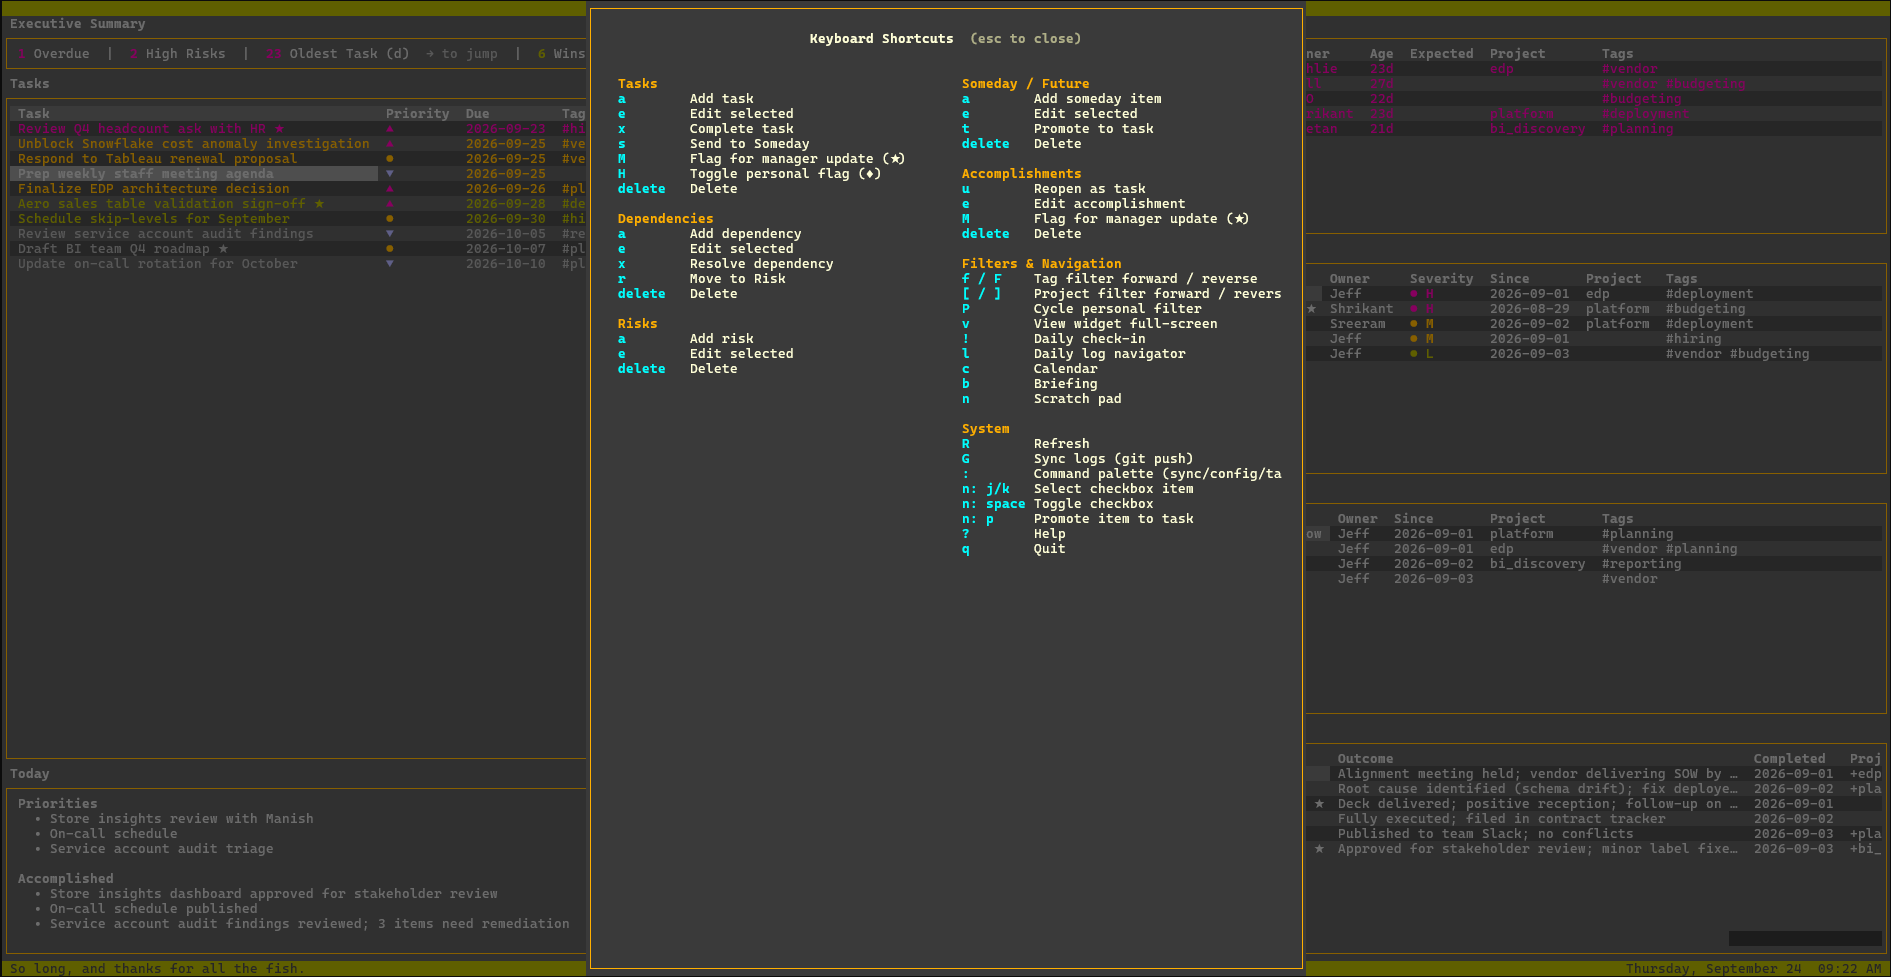
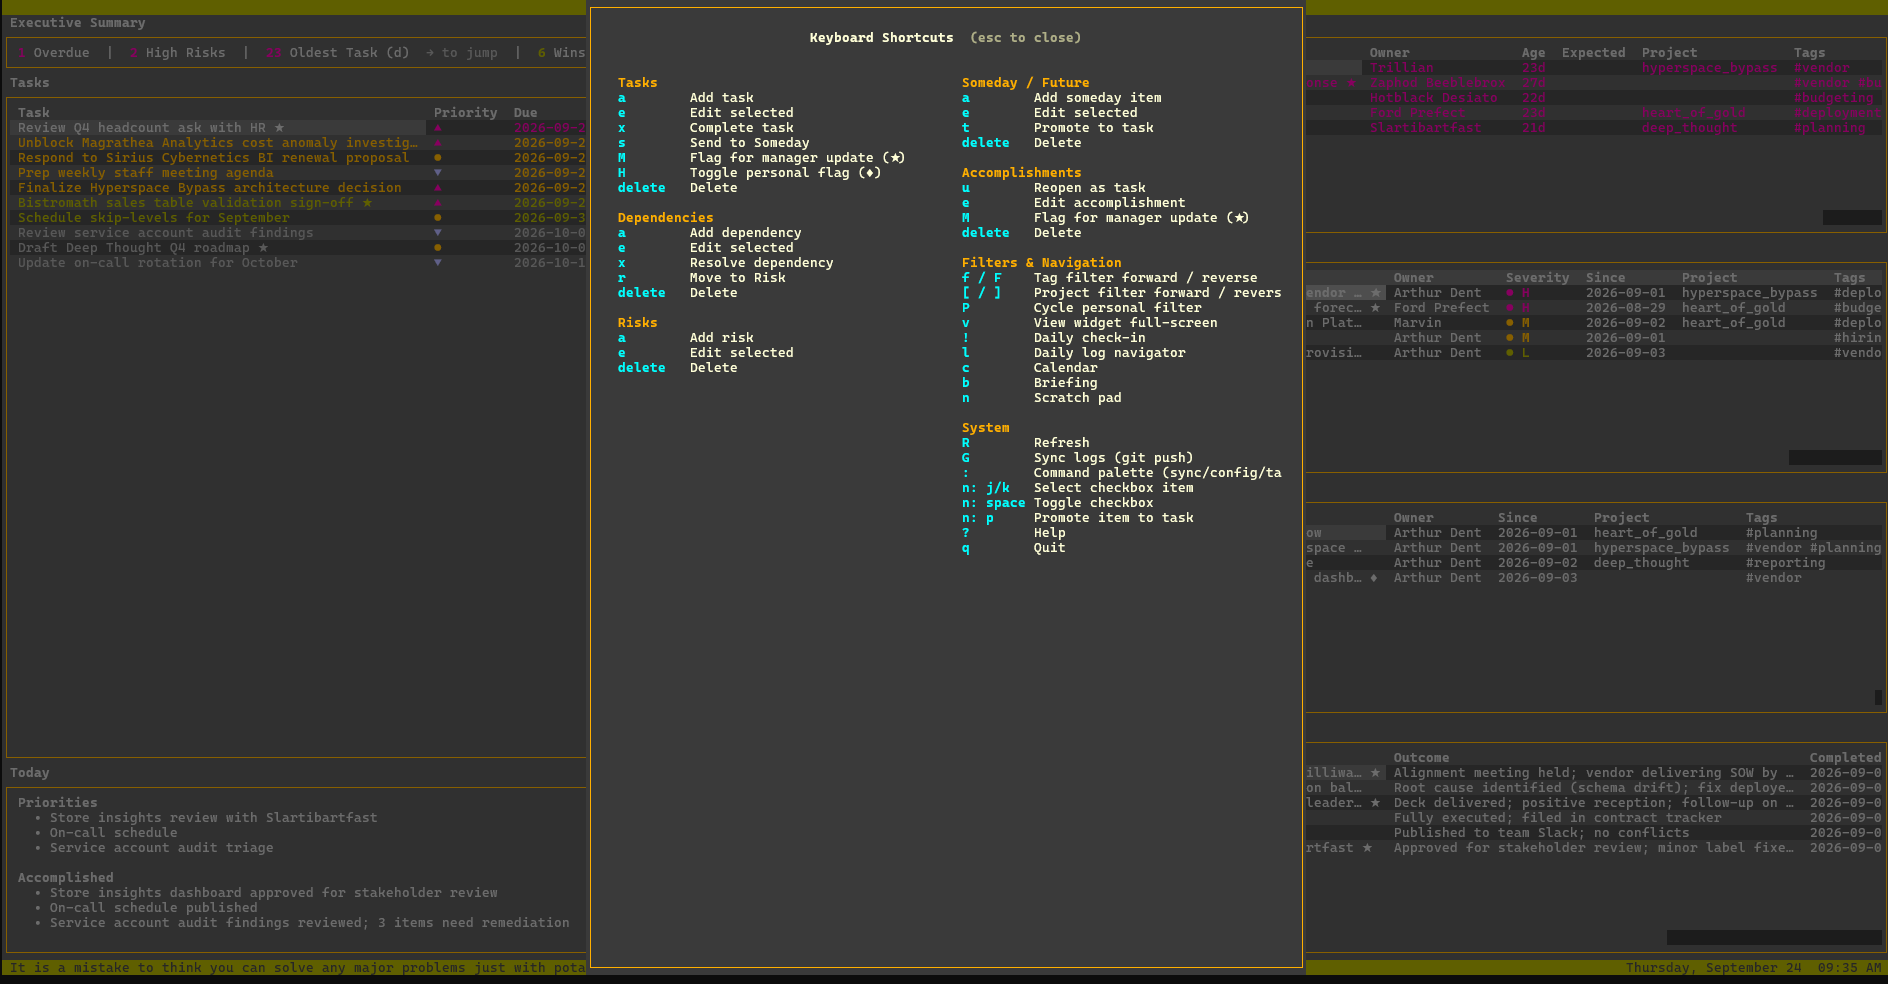
sync

diff --git a/demo-logs/2026-09-Director-Log.md b/demo-logs/2026-09-Director-Log.md
@@ -3,23 +3,23 @@
 ## Active To-Dos
 
 ### High-Priority
-- [ ] (A) Finalize EDP architecture decision | Due: 2026-09-26 | Created: 2026-09-01 | Project: edp | Tags: planning
+- [ ] (A) Finalize Hyperspace Bypass architecture decision | Due: 2026-09-26 | Created: 2026-09-01 | Project: hyperspace_bypass | Tags: planning
 - [ ] (A) Review Q4 headcount ask with HR | Due: 2026-09-23 | Created: 2026-09-02 | Mgr: true | Tags: hiring
-- [ ] (A) Unblock Magrathea Analytics cost anomaly investigation | Due: 2026-09-25 | Created: 2026-09-03 | Project: platform | Tags: vendor
-- [ ] (A) Bistromath sales table validation sign-off | Due: 2026-09-28 | Created: 2026-09-04 | Project: edp | Tags: deployment | Mgr: true
+- [ ] (A) Unblock Magrathea Analytics cost anomaly investigation | Due: 2026-09-25 | Created: 2026-09-03 | Project: heart_of_gold | Tags: vendor
+- [ ] (A) Bistromath sales table validation sign-off | Due: 2026-09-28 | Created: 2026-09-04 | Project: hyperspace_bypass | Tags: deployment | Mgr: true
 - [ ] (B) Respond to Sirius Cybernetics BI renewal proposal | Due: 2026-09-25 | Created: 2026-09-05 | Tags: vendor budgeting
-- [ ] (B) Draft BI team Q4 roadmap | Due: 2026-10-07 | Created: 2026-09-06 | Project: bi_discovery | Tags: planning | Mgr: true
+- [ ] (B) Draft Deep Thought Q4 roadmap | Due: 2026-10-07 | Created: 2026-09-06 | Project: deep_thought | Tags: planning | Mgr: true
 - [ ] (B) Schedule skip-levels for September | Due: 2026-09-30 | Created: 2026-09-07 | Tags: hiring
-- [ ] (C) Update on-call rotation for October | Due: 2026-10-10 | Created: 2026-09-08 | Project: platform | Tags: planning
-- [ ] (C) Review service account audit findings | Due: 2026-10-05 | Created: 2026-09-09 | Project: platform | Tags: reporting
+- [ ] (C) Update on-call rotation for October | Due: 2026-10-10 | Created: 2026-09-08 | Project: heart_of_gold | Tags: planning
+- [ ] (C) Review service account audit findings | Due: 2026-10-05 | Created: 2026-09-09 | Project: heart_of_gold | Tags: reporting
 - [ ] (C) Prep weekly staff meeting agenda | Due: 2026-09-25 | Created: 2026-09-10
 
 ### Waiting On
-- EDP vendor SOW | Owner: Trillian | Since: 2026-09-01 | Project: edp | Tags: vendor
+- Hyperspace Bypass vendor SOW | Owner: Trillian | Since: 2026-09-01 | Project: hyperspace_bypass | Tags: vendor
 - Magrathea Analytics enterprise pricing response | Owner: Zaphod Beeblebrox | Since: 2026-08-28 | Tags: vendor budgeting | Mgr: true
 - Q4 budget approval | Owner: Hotblack Desiato | Since: 2026-09-02 | Tags: budgeting | Mgr: true
-- Store EntraID provisioning spec | Owner: Ford Prefect | Since: 2026-09-01 | Project: platform | Tags: deployment
-- Feedback on BI roadmap draft | Owner: Slartibartfast | Since: 2026-09-03 | Project: bi_discovery | Tags: planning
+- Heart of Gold provisioning spec | Owner: Ford Prefect | Since: 2026-09-01 | Project: heart_of_gold | Tags: deployment
+- Feedback on Deep Thought roadmap draft | Owner: Slartibartfast | Since: 2026-09-03 | Project: deep_thought | Tags: planning
 
 ### Resolved Dependencies
 
@@ -34,41 +34,41 @@
   Notes: Agreed to 2-year renewal at current rate; procurement engaged
 
 ### Someday/Future
-- Standardize data access provisioning workflow | Owner: Arthur Dent | Since: 2026-09-01 | Project: platform | Tags: planning
-- Evaluate dbt Cloud vs self-hosted for EDP | Owner: Arthur Dent | Since: 2026-09-01 | Project: edp | Tags: vendor planning
-- Build internal BI onboarding guide | Owner: Arthur Dent | Since: 2026-09-02 | Project: bi_discovery | Tags: reporting
+- Standardize data access provisioning workflow | Owner: Arthur Dent | Since: 2026-09-01 | Project: heart_of_gold | Tags: planning
+- Evaluate dbt Cloud vs self-hosted for Hyperspace Bypass | Owner: Arthur Dent | Since: 2026-09-01 | Project: hyperspace_bypass | Tags: vendor planning
+- Build internal Deep Thought onboarding guide | Owner: Arthur Dent | Since: 2026-09-02 | Project: deep_thought | Tags: reporting
 - Explore Sirius Cybernetics BI for store ops dashboards | Owner: Arthur Dent | Since: 2026-09-03 | Tags: vendor | Personal: true
 
 ### Risks
-- EDP timeline at risk due to vendor delays | Severity: H | Owner: Arthur Dent | Since: 2026-09-01 | Project: edp | Tags: deployment | Mgr: true
-- Magrathea Analytics costs trending 20% over forecast | Severity: H | Owner: Ford Prefect | Since: 2026-08-29 | Project: platform | Tags: budgeting | Mgr: true
-- Single point of failure on Vogon Integration Platform | Severity: M | Owner: Marvin | Since: 2026-09-02 | Project: platform | Tags: deployment
+- Hyperspace Bypass timeline at risk due to vendor delays | Severity: H | Owner: Arthur Dent | Since: 2026-09-01 | Project: hyperspace_bypass | Tags: deployment | Mgr: true
+- Magrathea Analytics costs trending 20% over forecast | Severity: H | Owner: Ford Prefect | Since: 2026-08-29 | Project: heart_of_gold | Tags: budgeting | Mgr: true
+- Single point of failure on Vogon Integration Platform | Severity: M | Owner: Marvin | Since: 2026-09-02 | Project: heart_of_gold | Tags: deployment
 - Q4 hiring timeline may slip | Severity: M | Owner: Arthur Dent | Since: 2026-09-01 | Tags: hiring
 - Sirius Cybernetics BI license count under-provisioned | Severity: L | Owner: Arthur Dent | Since: 2026-09-03 | Tags: vendor budgeting
 
 ### Accomplishments
 
-- Task: Kick off EDP discovery with Milliways Consulting | Project: edp | Tags: planning | Mgr: true
+- Task: Kick off Hyperspace Bypass discovery with Milliways Consulting | Project: hyperspace_bypass | Tags: planning | Mgr: true
   Outcome: Alignment meeting held; vendor delivering SOW by 2026-09-05
   Completed: 2026-09-01
 
-- Task: Resolve Vogon Integration Platform failure on balance feed | Project: platform | Tags: deployment
+- Task: Resolve Vogon Integration Platform failure on balance feed | Project: heart_of_gold | Tags: deployment
   Outcome: Root cause identified (schema drift); fix deployed and monitored for 24h
   Completed: 2026-09-02
 
-- Task: Present Q2 BI accomplishments to leadership | Tags: reporting | Mgr: true
-  Outcome: Deck delivered; positive reception; follow-up on EDP investment requested
+- Task: Present Q2 Deep Thought accomplishments to leadership | Project: deep_thought | Tags: reporting | Mgr: true
+  Outcome: Deck delivered; positive reception; follow-up on Hyperspace Bypass investment requested
   Completed: 2026-09-01
 
 - Task: Close out Milliways Consulting NDA | Tags: vendor
   Outcome: Fully executed; filed in contract tracker
   Completed: 2026-09-02
 
-- Task: Finalize September on-call schedule | Project: platform
+- Task: Finalize September on-call schedule | Project: heart_of_gold
   Outcome: Published to team Slack; no conflicts
   Completed: 2026-09-03
 
-- Task: Review store insights dashboard with Slartibartfast | Project: bi_discovery | Tags: reporting | Mgr: true
+- Task: Review Deep Thought dashboard with Slartibartfast | Project: deep_thought | Tags: reporting | Mgr: true
   Outcome: Approved for stakeholder review; minor label fixes requested
   Completed: 2026-09-03
 
@@ -80,13 +80,13 @@
 
 ##### Priorities
 
-- EDP vendor kickoff with Milliways Consulting
-- Q2 accomplishments deck
+- Hyperspace Bypass vendor kickoff with Milliways Consulting
+- Q2 Deep Thought accomplishments deck
 - Milliways Consulting NDA follow-up
 
 ##### Accomplished
 
-- EDP kickoff meeting held; Trillian engaged and responsive
+- Hyperspace Bypass kickoff meeting held; Trillian engaged and responsive
 - Q2 deck delivered to leadership — good reception
 - Milliways Consulting NDA countersigned and filed
 
@@ -96,7 +96,7 @@
 
 ##### Notes
 
-- Strong start to the month. EDP momentum is good but SOW timeline is tight.
+- Strong start to the month. Hyperspace Bypass momentum is good but SOW timeline is tight.
 
 #### 2026-09-02
 
@@ -145,13 +145,13 @@
 
 ##### Priorities
 
-- Finalize EDP architecture decision
+- Finalize Hyperspace Bypass architecture decision
 - Magrathea Analytics cost investigation
-- Q4 roadmap draft
+- Deep Thought Q4 roadmap draft
 
 ##### Accomplished
 
-- EDP arch review completed with team; decision pending vendor response
+- Hyperspace Bypass arch review completed with team; decision pending vendor response
 - Magrathea Analytics anomaly traced to untagged warehouse; cost controls applied
 
 ##### Blocked
@@ -160,4 +160,4 @@
 
 ##### Notes
 
-- Good momentum on EDP. Roadmap draft needs Slartibartfast's input before it moves.
+- Good momentum on Hyperspace Bypass. Roadmap draft needs Slartibartfast's input before it moves.

diff --git a/README.md b/README.md
@@ -4,9 +4,28 @@ A terminal-based productivity OS for technology leaders. Built with [Textual](ht
 
 director_os is a low-friction way to manage your work, stay on top of what matters, and report out on status and accomplishments — without leaving the terminal. All data is stored in plain markdown files, one per month. No database, no sync service, no lock-in.
 
-## Screenshot
+## Screenshots
 
-![director_os dashboard](screenshots/director_os_dashboard.png)
+![Dashboard](screenshots/director_os_dashboard.png)
+*Main dashboard — tasks, dependencies, risks, someday, accomplishments, and today's check-in*
+
+![Manager Update](screenshots/director_os_manager_update.png)
+*Manager update — project-grouped with programmatic summary, outcomes, and tags*
+
+![Project Manager](screenshots/director_os_project_manager.png)
+*Project manager — per-type counts, high-risk indicator, display name and description*
+
+![Tag Manager](screenshots/director_os_tag_manager.png)
+*Tag manager — rename, merge, and delete tags across all objects*
+
+![Weekly Review](screenshots/director_os_weekly_review.png)
+*Weekly review*
+
+![Command Palette](screenshots/director_os_command_palette.png)
+*Command palette*
+
+![Help](screenshots/director_os_help_screen.png)
+*Keyboard shortcut reference*
 
 ## Features
 

diff --git a/demo-logs/scratch.md b/demo-logs/scratch.md
@@ -1,0 +1,4 @@
+# Scratchpad
+## This is a freeform space for notes
+* Note 1
+* Note 2
